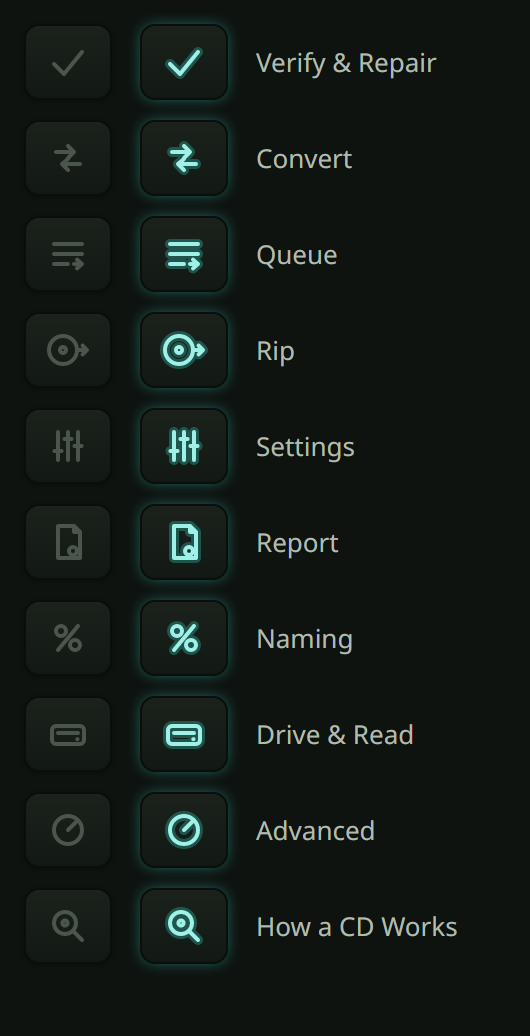
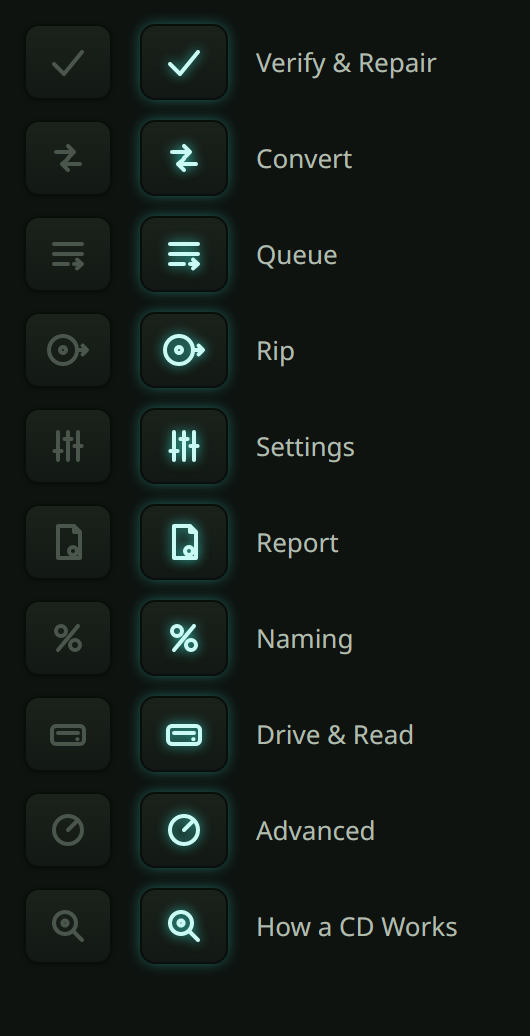
Give the lit glyphs real falloff, not a band
The owner's markup on the approval sheet: the key halos fall off
correctly but the lit symbols were a crisp stroke with a hard-edged
wider band under it. The band is gone; the lit stroke now carries a
zero-offset DropShadowEffect in the halo color, so the groove's light
blurs into the plastic with true falloff, both themes. Evidence sheets
regenerated; the glow recipe is recorded beside the geometry so the
real strip control ships it.

diff --git a/src/CUETools.Linux.App/Theme/RailIcons.cs b/src/CUETools.Linux.App/Theme/RailIcons.cs
@@ -9,6 +9,11 @@ namespace CUETools.Linux.App.Theme;
 /// icon: Settings is a bank of mixer faders, Advanced is the recessed
 /// trimmer screw you only touch deliberately, How a CD Works is the
 /// magnifier over the disc. 24x24 viewbox, 2px strokes, round caps.
+///
+/// The lit treatment (owner-corrected on the approval sheet): the groove's
+/// light needs real falloff, not a wider band. Render the lit stroke with a
+/// zero-offset DropShadowEffect in the halo color (blur ~8 dark / ~7 light,
+/// opacity ~0.9 / ~0.65), the same physics as the key's own halo.
 /// </summary>
 public static class RailIcons
 {
